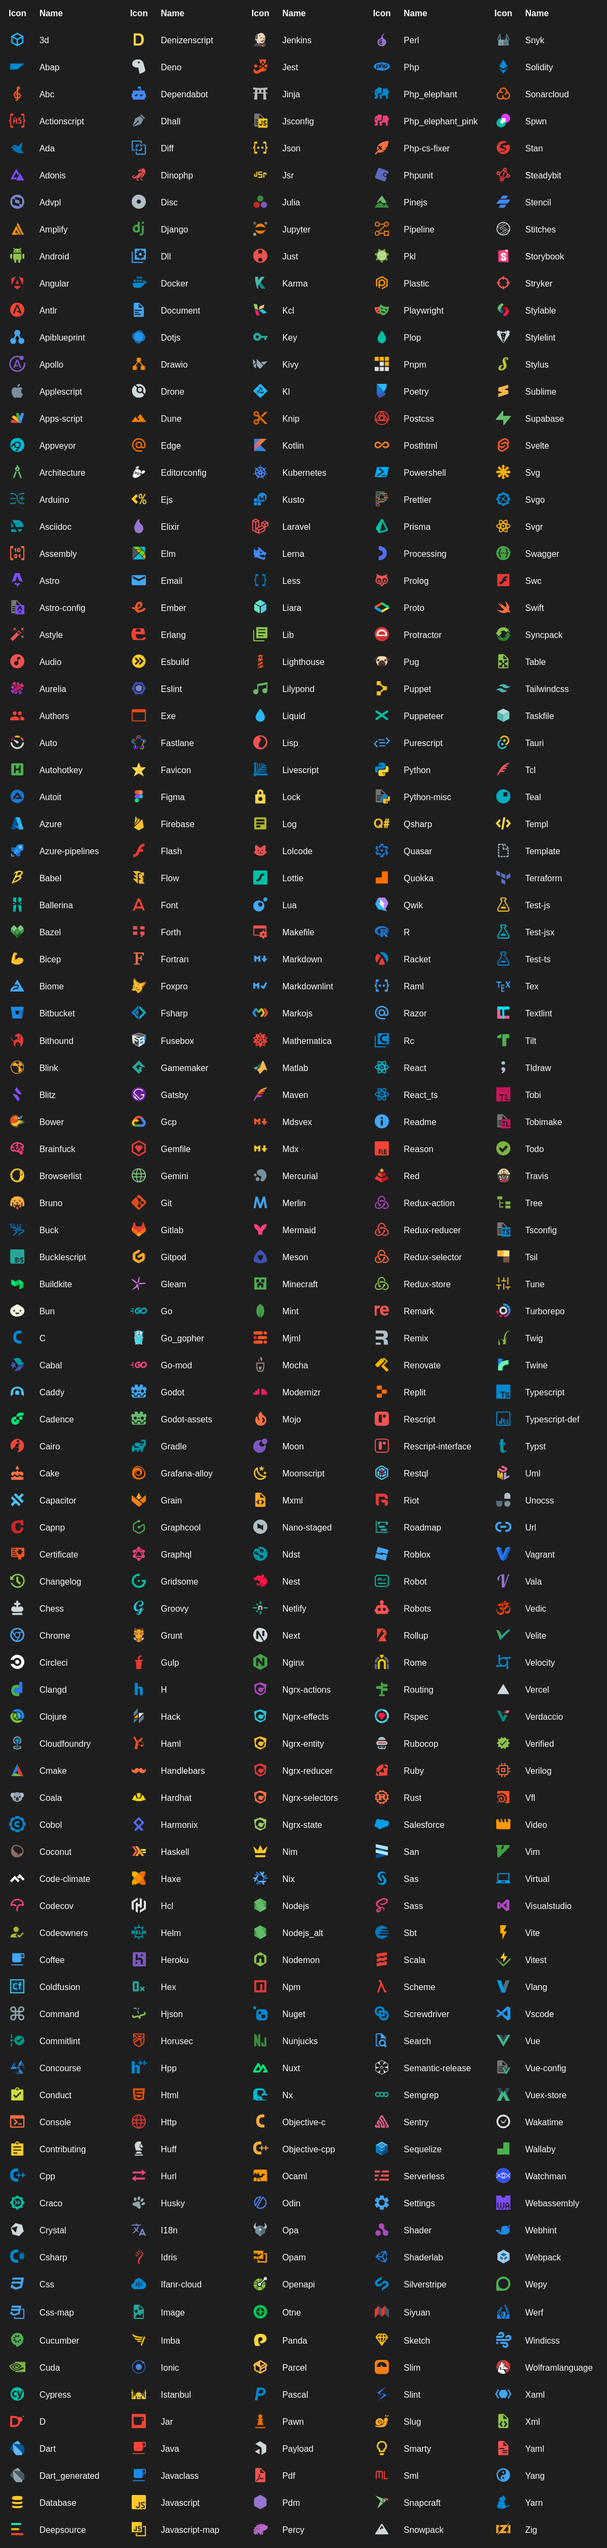
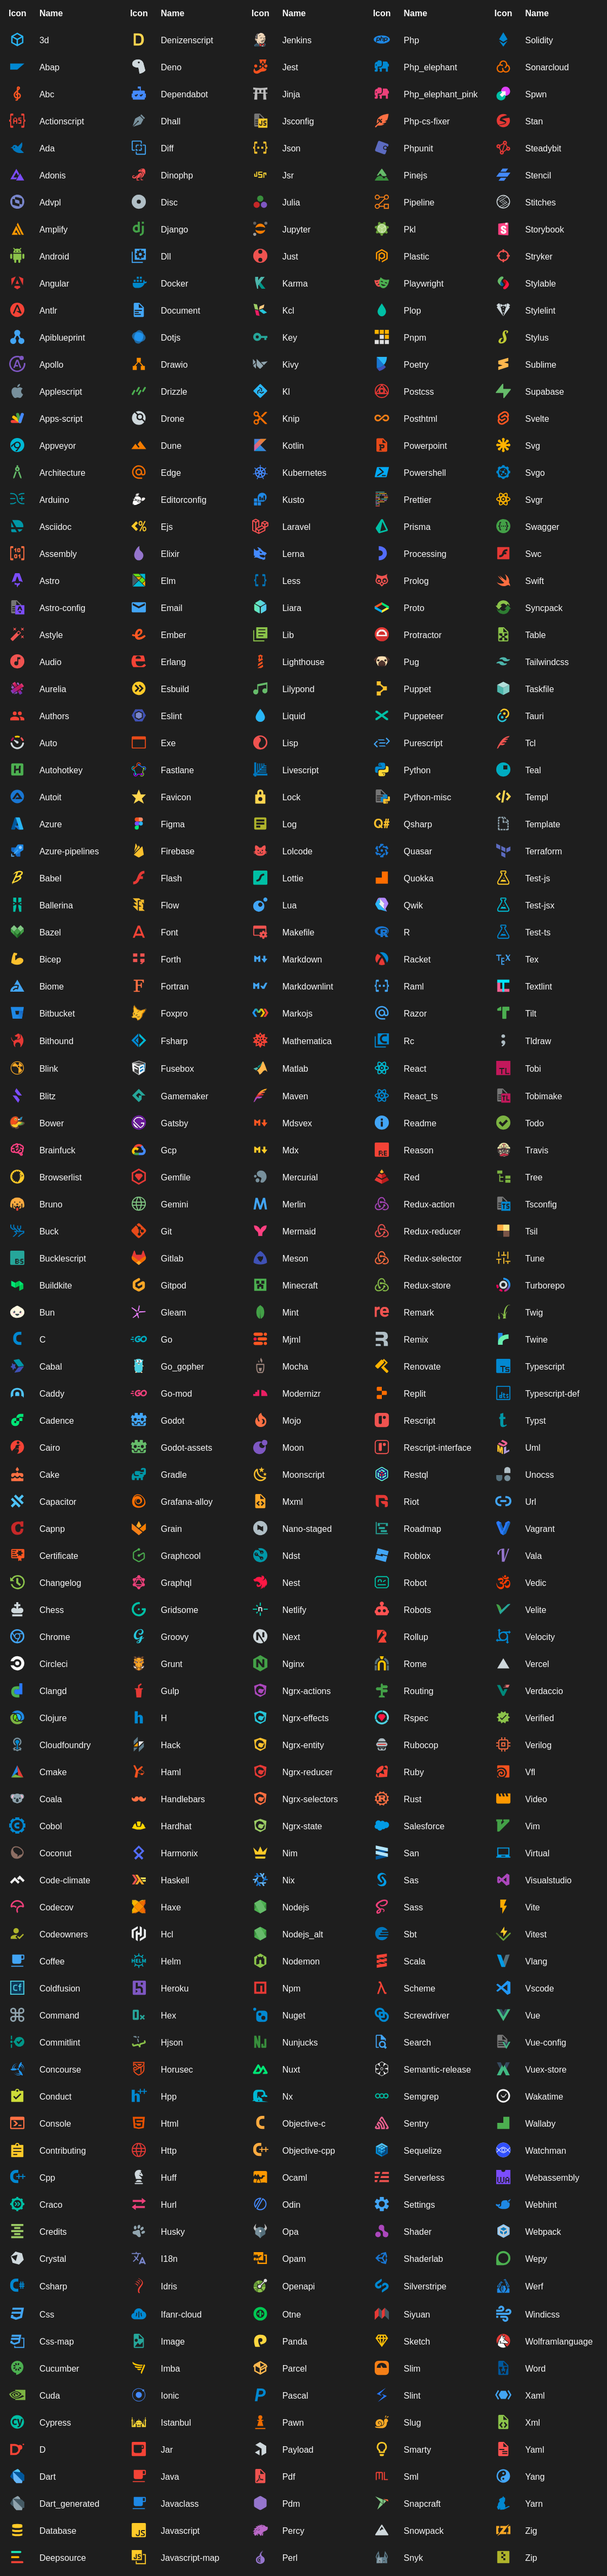
release: 🔖 v1.5.0

diff --git a/CHANGELOG.md b/CHANGELOG.md
@@ -3,10 +3,23 @@
  All notable changes to this project will be documented in this file. Dates are displayed in UTC.
 
  
+#### [v1.5.0](https://github.com/lucodear/lucodear-icons/compare/v1.4.0...v1.5.0) 
+
+> August 5, 2024 
+
+- ci: 🔄 attestations permission [`b54c42a7`](https://github.com/lucodear/lucodear-icons/commit/b54c42a7)
+- ci: 🔄 attestations permission [`099b248c`](https://github.com/lucodear/lucodear-icons/commit/099b248c)
+- ci: 🔄 add predicate to attestation step [`0ec47ae5`](https://github.com/lucodear/lucodear-icons/commit/0ec47ae5)
+- ci: 🔄 add attesation predicate type [`2553c5b8`](https://github.com/lucodear/lucodear-icons/commit/2553c5b8)
+- Feat: Drizzle ORM [`#2127`](https://github.com/lucodear/lucodear-icons/pull/2127)
+- Show nuxt folder icon without pack [`1c8513c9`](https://github.com/lucodear/lucodear-icons/commit/1c8513c9)
+- build(deps): bump actions/attest in the github-actions group [`#2517`](https://github.com/lucodear/lucodear-icons/pull/2517)
+ 
 #### [v1.4.0](https://github.com/lucodear/lucodear-icons/compare/v1.3.0...v1.4.0) 
 
 > August 5, 2024 
 
+- release: 🔖 v1.4.0 [`3d720100`](https://github.com/lucodear/lucodear-icons/commit/3d720100)
 - feat(node): ✨ typescript & javascript script icons [`#98`](https://github.com/lucodear/lucodear-icons/pull/98)
 - Added folder-icon for flutter [`#2511`](https://github.com/lucodear/lucodear-icons/pull/2511)
 - Made pixel-perfect (almost) icons [`#2449`](https://github.com/lucodear/lucodear-icons/pull/2449)
